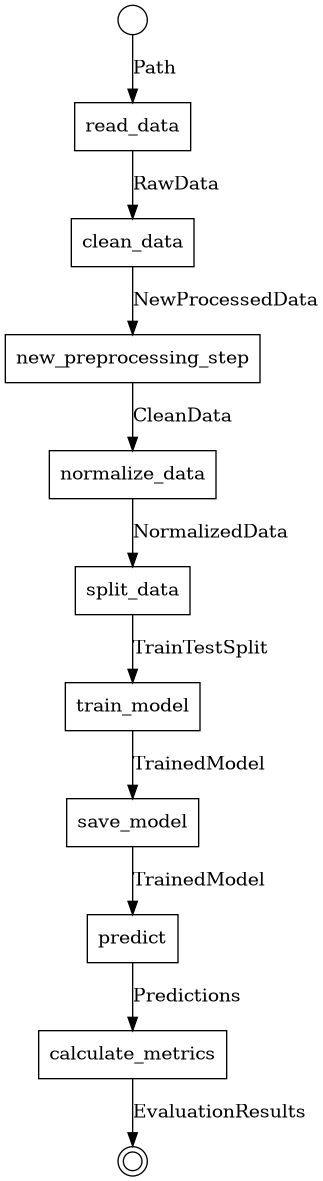
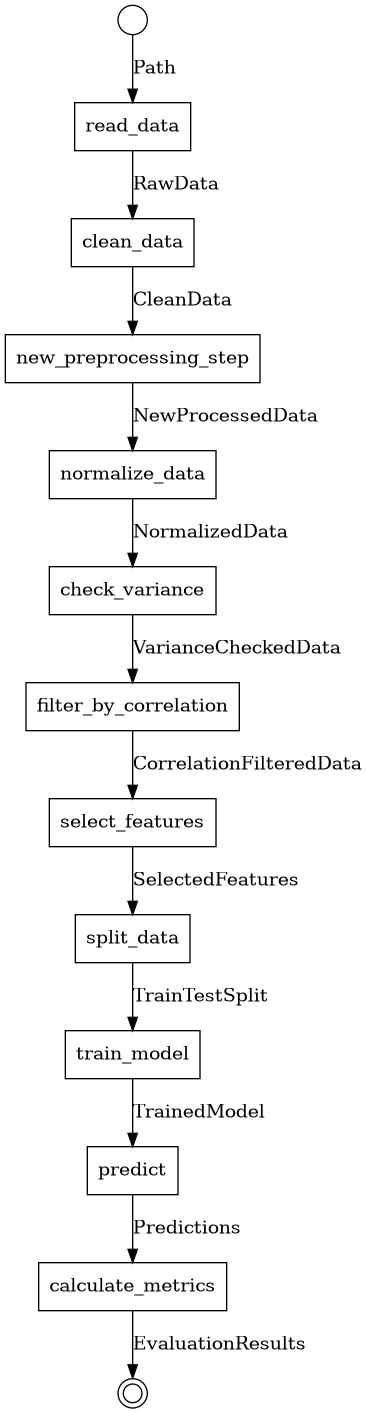
docs: update in README example type hints

Changed region(s): [[0.0, 0.0, 0.9907, 1.0], [0.5882, 0.0914, 0.6192, 0.1219], [0.1548, 0.7316, 0.1858, 0.7621]]

diff --git a/README.md b/README.md
@@ -79,24 +79,24 @@ Each `Kernel` wraps a specific phase of the pipeline, composing its internal ste
 
 ```python
 # Data Processing Kernel
-class DataProcessingKernel(BaseKernel[Path, ProcessedData]):
+class DataProcessingKernel(BaseKernel[Path, NormalizedData]):
     read_data: Transformer[Path, RawData]
     clean_data: Transformer[RawData, CleanData]
     normalize_data: Transformer[CleanData, NormalizedData]
 
     @property
-    def pipeline_graph(self) -> Transformer[Path, ProcessedData]:
+    def pipeline_graph(self) -> Transformer[Path, NormalizedData]:
         return self.read_data >> self.clean_data >> self.normalize_data
 ```
 
 ```python
 # Model Training Kernel
-class ModelTrainingKernel(BaseKernel[ProcessedData, TrainedModel]):
-    split_data: Transformer[ProcessedData, TrainTestSplit]
+class ModelTrainingKernel(BaseKernel[NormalizedData, TrainedModel]):
+    split_data: Transformer[NormalizedData, TrainTestSplit]
     train_model: Transformer[TrainTestSplit, TrainedModel]
 
     @property
-    def pipeline_graph(self) -> Transformer[ProcessedData, TrainedModel]:
+    def pipeline_graph(self) -> Transformer[NormalizedData, TrainedModel]:
         return self.split_data >> self.train_model
 ```
 
@@ -141,14 +141,14 @@ def new_preprocessing_step(data: CleanData) -> NewProcessedData:
     pass
 
 # Update the DataProcessingKernel to include the new step
-class DataProcessingKernel(BaseKernel[Path, ProcessedData]):
+class DataProcessingKernel(BaseKernel[Path, NormalizedData]):
     read_data: Transformer[Path, RawData]
     clean_data: Transformer[RawData, CleanData]
     new_preprocessing_step: Transformer[CleanData, NewProcessedData]
     normalize_data: Transformer[NewProcessedData, NormalizedData]
 
     @property
-    def pipeline_graph(self) -> Transformer[Path, ProcessedData]:
+    def pipeline_graph(self) -> Transformer[Path, NormalizedData]:
         return self.read_data >> self.clean_data >> self.new_preprocessing_step >> self.normalize_data
 ```
 
@@ -162,13 +162,13 @@ We start by defining a new kernel for feature selection:
 
 ```python
 # Feature Selection Kernel
-class FeatureSelectionKernel(BaseKernel[ProcessedData, SelectedFeatures]):
-    check_variance: Transformer[ProcessedData, VarianceCheckedData]
+class FeatureSelectionKernel(BaseKernel[NormalizedData, SelectedFeatures]):
+    check_variance: Transformer[NormalizedData, VarianceCheckedData]
     filter_by_correlation: Transformer[VarianceCheckedData, CorrelationFilteredData]
     select_features: Transformer[CorrelationFilteredData, SelectedFeatures]
 
     @property
-    def pipeline_graph(self) -> Transformer[ProcessedData, SelectedFeatures]:
+    def pipeline_graph(self) -> Transformer[NormalizedData, SelectedFeatures]:
         return self.check_variance >> self.filter_by_correlation >> self.select_features
 ```
 
@@ -227,11 +227,13 @@ After defining your kernels and transformers, you can generate a visual represen
 ```python
 [...]
 
-data_processor = DataProcessingKernel(...)
+data_processor = DataProcessingKernel(...)  # supply step transformers implementations
+feature_selector = FeatureSelectionKernel(...)
 model_trainer = ModelTrainingKernel(...)
 evaluator = EvaluationKernel(...)
 
-experiment_pipeline = data_processor >> model_trainer >> evaluator
+# Combine the kernels into a full experiment pipeline
+experiment_pipeline = data_processor >> feature_selector >> model_trainer >> evaluator
 
 # Generate visual representation of the workflow
 experiment_pipeline.pipeline_graph.to_image("./experiment_workflow.png")
